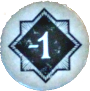
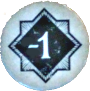
added elderSign, tweaked minusOne, adjusted image height

diff --git a/src/images/tokens/index.js b/src/images/tokens/index.js
@@ -13,7 +13,7 @@ import cultistPath from './minusOne.png';
 import tabletPath from './minusOne.png';
 import elderThingPath from './minusOne.png';
 import tenticlesPath from './tenticles.png';
-import elderSignPath from './minusOne.png';
+import elderSignPath from './elderSign.png';
 
 export default {
     plusOnePath,

diff --git a/src/components/chaosBag/token.css b/src/components/chaosBag/token.css
@@ -15,6 +15,7 @@
     margin-top: 5px;
     margin-bottom: 5px;
     width: 30px;
+    height: 32px;
 }
 .token-image-wrapper img {
     width: 100%;
